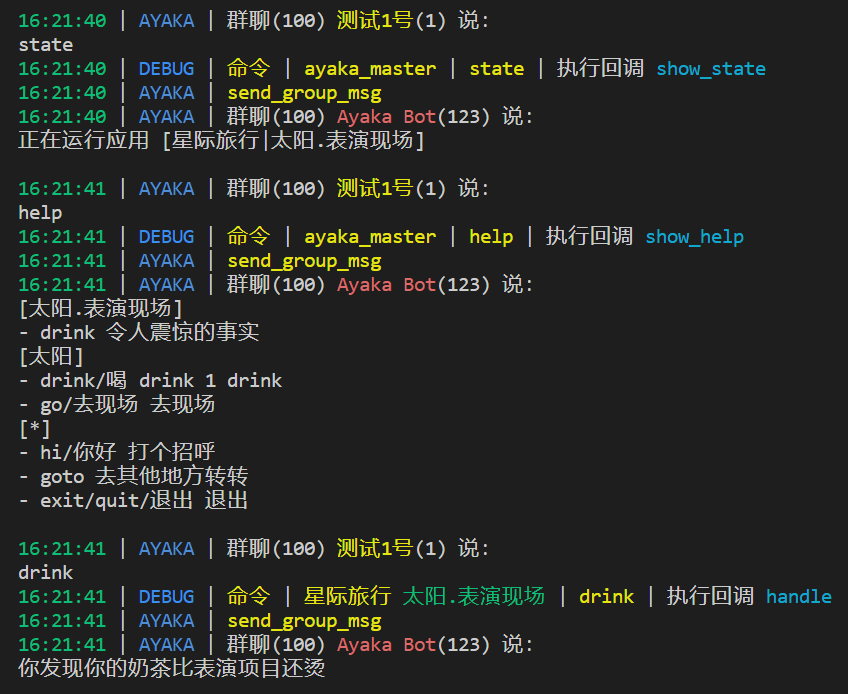
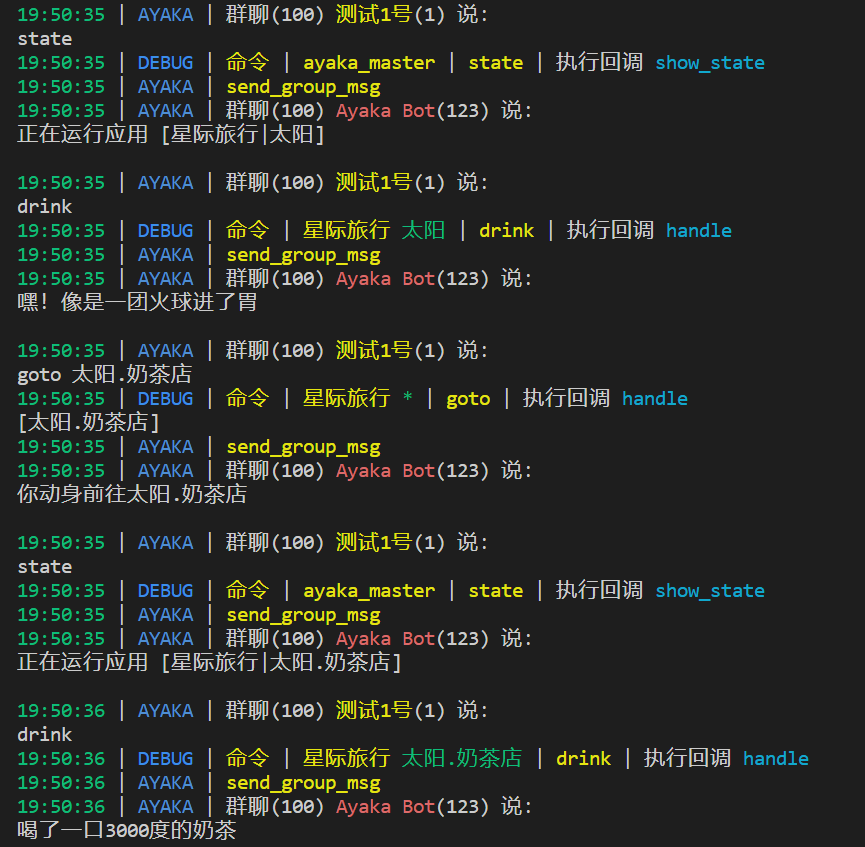
更好

diff --git a/docs/intro/why.md b/docs/intro/why.md
@@ -27,7 +27,7 @@ ayaka的解决方式是，你需要先运行`应用A`和`应用B`中的一个，
 | 地球     | jump        | 一跳两米高               |
 | 地球     | hit         | 你全力一击，制造了大地震 |
 | 月球     | jump        | 你离开了月球...永远的... |
-| 太阳     | drink       | 你感觉肚子暖洋洋的       |
+| 太阳     | drink       | 嘿！像是一团火球进了胃   |
 | 任意地点 | goto <名字> | 去另一个星球             |
 | 任意地点 | hi          | 你好, <名字>!            |
 
@@ -62,6 +62,13 @@ jump = app.on.command("jump", "跳")
 drink = app.on.command("drink", "喝")
 
 
+@all
+@hi
+async def handle():
+    '''打个招呼'''
+    await app.send(f"你好, {app.state}!")
+
+
 @earth
 @jump
 async def handle():
@@ -87,14 +94,7 @@ async def handle():
 @drink
 async def handle():
     '''drink 1 drink'''
-    await app.send("你感觉肚子暖洋洋的")
-
-
-@all
-@hi
-async def handle():
-    '''打个招呼'''
-    await app.send(f"你好, {app.state}!")
+    await app.send("嘿！像是一团火球进了胃")
 
 
 @all
@@ -102,11 +102,13 @@ async def handle():
 async def handle():
     '''去其他地方转转'''
     name = str(app.arg)
-    print(f"[{name}]")
     app.state = name
     await app.send(f"你动身前往{name}")
+```
 
+这样就完成了
 
+```py
 # 关闭应用
 @all
 @app.on.command("exit", "quit", "退出")
@@ -115,59 +117,89 @@ async def handle():
     await app.close()
 ```
 
+哦，我差点忘了退出了，让一个应用霸占着设备可不好
+
 ![图片](星际旅行_1.png)
 
 ## 多层次的状态
 
-在刚才的旅游小游戏的基础上，我们希望能再加点功能，比如，可以在太阳上去饮品店喝奶茶，可以去售票处买耀斑表演的门票，然后去表演现场时需要门票才能去
+在刚才的旅游小游戏的基础上，我们希望能再加点功能，比如，太阳上新开了一家奶茶店
 
 ### 需求如下
 
-| 地点          | 动作  | 效果                         |
-| ------------- | ----- | ---------------------------- |
-| 太阳.奶茶店   | drink | 喝了一口3000度的奶茶         |
-| 太阳.售票处   | buy   | 耀斑表演门票+1               |
-| 太阳.任意地点 | go    | 去表演现场                   |
-| 太阳.表演现场 | drink | 你发现你的奶茶比表演项目还烫 |
+| 地点          | 动作  | 效果                   |
+| ------------- | ----- | ---------------------- |
+| 太阳.奶茶店   | drink | 喝了一口3000度的奶茶   |
+| 太阳.其他地点 | drink | 嘿！像是一团火球进了胃 |
 
 ### 编写代码
 
 ```py
-# 补充
+# 补充1
 @app.on.state("太阳.奶茶店")
 @drink
 async def handle():
     '''热乎的'''
     await app.send("喝了一口3000度的奶茶")
+```
 
+![图片](星际旅行_2.png)
 
+## 缓存
+
+宇宙旅游公司又开设了一个新景点：耀斑表演
+
+我们需要先去售票处买耀斑表演的门票，然后再去表演现场
+
+### 需求如下
+
+| 地点          | 动作  | 效果           |
+| ------------- | ----- | -------------- |
+| 太阳.售票处   | buy   | 耀斑表演门票+1 |
+| 太阳.任意地点 | watch | 去表演现场     |
+
+### 编写代码
+
+```py
+# 补充2
 @app.on.state("太阳.售票处")
 @app.on.command("buy")
 async def handle():
     '''买门票'''
-    await app.send("耀斑表演门票+1")
     app.cache.ticket = 1
+    await app.send("耀斑表演门票+1")
 
 
 @app.on.state("太阳")
-@app.on.command("go", "去现场")
+@app.on.command("watch", "去现场")
 async def handle():
     '''去现场'''
     if app.cache.ticket:
         app.cache.ticket -= 1
         await app.send("耀斑表演门票-1")
-        app.state = "太阳.表演现场"
-        await app.send("不一会，你到了")
+        app.state = "太阳.耀斑表演"
+        await app.send("10分甚至9分的好看")
     else:
         await app.send("你还没买票")
+```
 
+![图片](星际旅行_3.png)
 
-@app.on.state("太阳.表演现场")
-@app.on.command("drink")
+## 消息触发
+
+除了命令触发以外，消息触发也可以，比如，你在现场随便说了一句话
+
+```py
+# 补充3
+@app.on.state("太阳.耀斑表演")
+@app.on.text()
 async def handle():
     '''令人震惊的事实'''
     await app.send("你发现你的奶茶比表演项目还烫")
 ```
+
+![图片](星际旅行_4.png)
+
 
 ## 插件帮助
 
@@ -179,15 +211,20 @@ async def handle():
 
 现在，你只需发送命令`help` 
 
-![图片](星际旅行_2.png)
+![图片](星际旅行_5.png)
+
+`[*]` 代表它匹配任意状态，`*` 代表它匹配任意命令（=消息触发）
+
 
 ## 测试
 
-你可能注意到了，上图中的qq号(1, 123)和群聊号(100)是不可能出现的
+你可能注意到了，上图中的qq号(1, 123)和群聊号(100)并非真实qq号
 
-确实如此，因为这些消息，是由测试套件(`ayaka_test`)的假消息源捏造的，发送给nonebot用于测试
+确实如此，因为这些消息，是由测试套件(`ayaka_test`)所捏造的，发送给nonebot用于测试
 
 你可以下载整个[仓库](https://github.com/bridgeL/nonebot-plugin-ayaka)获得测试套件
+
+令人遗憾的是，由于编者精力有限，我们不得不在下一页详细介绍它的使用方法
 
 ## 下一步
 
